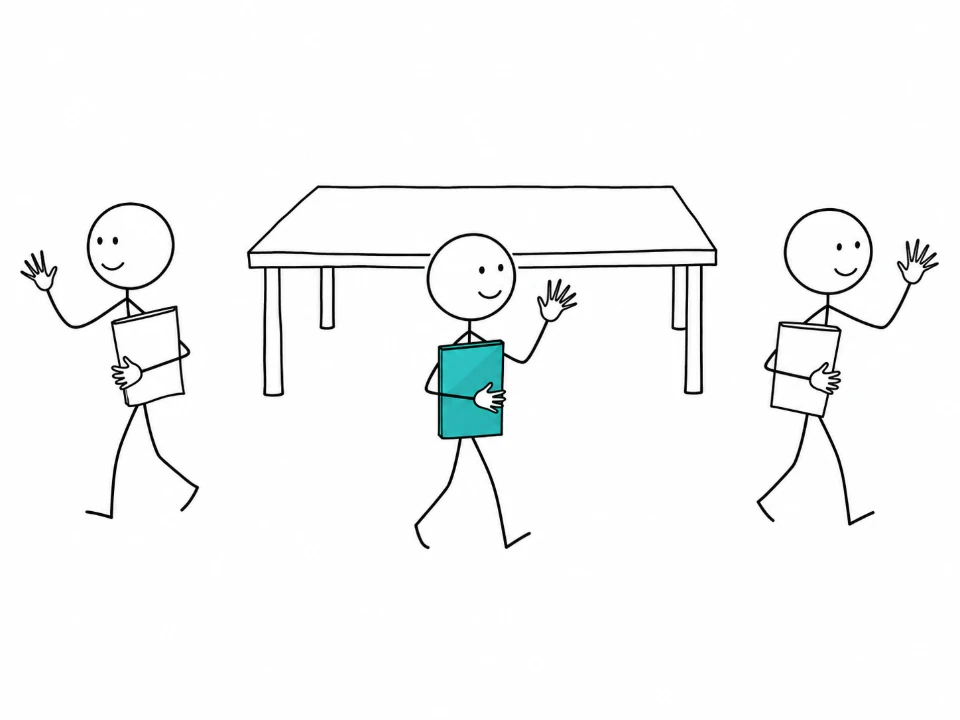
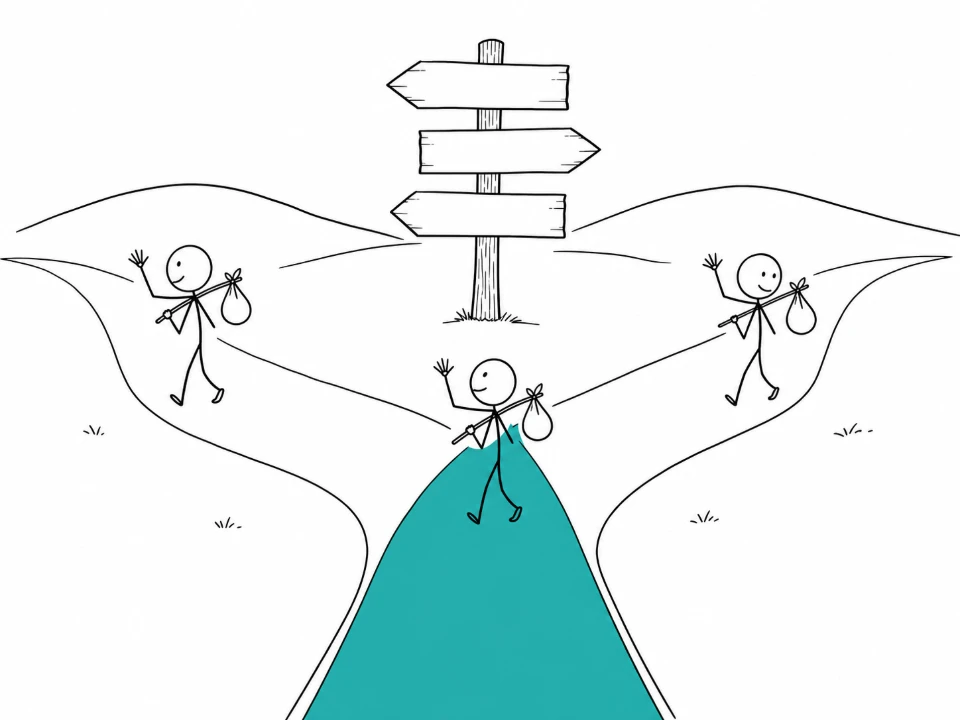
h1u3 L8 개념 컷 재발주 확정 — 삼거리 이정표 구도(3차, 잔여 소진)
- image_gen이 2연속 실패한 "지도 분할" 구도를 삼거리 이정표(세 갈래 길·빈 팻말)로 교체해 1발 성공 —
  프랑크 3분할의 "제 갈 길" 개념이 즉시 읽힘(u3l8.webp 교체)
- unit3.ts 캡션·alt를 새 구도로 정합("삼거리에서 각자의 길로"), his3_prompts.txt 잔여 주석 종결

diff --git a/src/content/his/unit3.ts b/src/content/his/unit3.ts
@@ -1366,7 +1366,7 @@ export const H1_UNIT3: Unit = {
           title: "서로마의 최후,<br>프랑크의 아침",
           lead: "민족의 대이동이 유럽의 지도를 다시 그렸어요.",
           blocks: [
-            { k: "figure", svg: cut("his", "u3l8", "조약 문서를 하나씩 나눠 안고 서로 손을 흔들며 제 갈 길로 떠나는 세 형제 스틱맨"), cap: "형제의 나라 나누기 — 각자 몫의 조약 문서를 안고 제 갈 길로. 오늘날 세 나라의 뿌리가 돼요" },
+            { k: "figure", svg: cut("his", "u3l8", "삼거리 이정표 앞에서 세 갈래 길로 각자 떠나며 서로 손을 흔드는 세 형제 스틱맨"), cap: "삼거리에서 각자의 길로 — 형제가 나눈 세 왕국이 오늘날 세 나라의 뿌리가 돼요" },
             { k: "term", name: "게르만족의 이동과 서로마 멸망", def: "유럽 북부에 살던 게르만족은 4세기 후반 <b>훈족의 압박</b>을 받자 대규모로 로마 영토 안으로 이동해 곳곳에 나라를 세웠어요. 쇠약해진 <b>서로마 제국은 게르만족 출신 용병 대장에 의해 멸망</b>했죠(476). 그 뒤 로마 교회의 대주교는 스스로 <b>교황</b>이라 부르며 서유럽 크리스트교회를 이끌었답니다." },
             { k: "term", name: "프랑크 왕국의 성장", def: "게르만 왕국 중 <b>프랑크 왕국</b>이 가장 크게 번영했어요 — 이동 거리가 짧아 빨리 정착했고, <b>로마 가톨릭교를 받아들여 로마 교회의 지지</b>를 얻었거든요. 8세기 초엔 침입해 온 이슬람 세력을 막아 내 서유럽 크리스트교 세계의 방패가 됐죠." },
             { k: "term", name: "카롤루스 대제(800)", def: "8세기 후반 <b>카롤루스 대제</b>는 옛 서로마 영토의 많은 부분을 차지하고 곳곳에 교회를 세워 크리스트교를 전파했어요. 교황은 그에게 <b>서로마 황제의 관</b>을 씌워 주며 서로마 제국의 부활을 선포했죠(800) — 게르만의 왕국이 로마의 계승자로 인정받은 순간! 그의 시대에 <b>로마 문화 + 크리스트교 + 게르만 문화</b>가 어우러져 중세 서유럽 문화의 기틀이 마련됐답니다." },